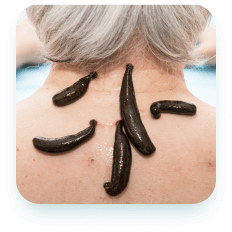
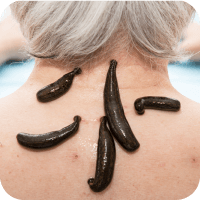
Font-family, shadow effect changed

diff --git a/css/style.css b/css/style.css
@@ -28,7 +28,7 @@ a {
   background-color: #de2e54;
   border: 2px solid #de2e54;
   border-radius: 8px;
-  font-family: "Open Sans Condensed", Sans;
+  font-family: "Open Sans Condensed", "Open Sans", sans-serif;
   font-weight: 700;
   font-size: 15px;
   line-height: 150%;
@@ -51,7 +51,7 @@ a {
 }
 
 .logo {
-  font-family: "Open Sans", Sans;
+  font-family: "Open Sans", "Open Sans", sans-serif;
   font-weight: 600;
   font-size: 24px;
   line-height: 33px;
@@ -112,7 +112,7 @@ header nav a:active {
 }
 
 .header-nav-list li a {
-  font-family: "Open Sans", Sans;
+  font-family: "Open Sans", "Open Sans", sans-serif;
   font-weight: 700;
   font-size: 14px;
   line-height: 150%;
@@ -148,7 +148,7 @@ header nav a:active {
 }
 
 .hero-content h2 {
-  font-family: "Open Sans Condensed", Sans;
+  font-family: "Open Sans Condensed", "Open Sans", sans-serif;
   font-weight: 700;
   font-size: 36px;
   line-height: 120%;
@@ -157,7 +157,7 @@ header nav a:active {
 }
 
 .hero-content p {
-  font-family: "Open Sans", Sans;
+  font-family: "Open Sans", "Open Sans", sans-serif;
   font-weight: 400;
   font-size: 18px;
   line-height: 150%;
@@ -188,7 +188,7 @@ header nav a:active {
 }
 
 .features h2 {
-  font-family: "Open Sans Condensed", Sans;
+  font-family: "Open Sans Condensed", "Open Sans", sans-serif;
   font-weight: 700;
   font-size: 36px;
   line-height: 120%;
@@ -199,6 +199,7 @@ header nav a:active {
 .features-list li {
   display: flex;
   justify-content: space-between;
+  align-items: center;
   margin-bottom: 80px;
 }
 
@@ -208,17 +209,17 @@ header nav a:active {
 
 .features-list li img {
   width: 200px;
-  height: 220px;
+  height: 200px;
+  box-shadow: 0px 12px 24px -8px rgba(0, 107, 116, 0.3);
   margin-right: 64px;
 }
 
 .features-list-content {
   width: 600px;
-  margin-top: 25px;
 }
 
 .features-list-content h3 {
-  font-family: "Open Sans Condensed", Sans;
+  font-family: "Open Sans Condensed", "Open Sans", sans-serif;
   font-weight: 700;
   font-size: 24px;
   line-height: 120%;
@@ -227,7 +228,7 @@ header nav a:active {
 }
 
 .features-list-content p {
-  font-family: "Open Sans", Sans;
+  font-family: "Open Sans", "Open Sans", sans-serif;
   font-weight: 400;
   font-size: 16px;
   line-height: 150%;
@@ -251,7 +252,7 @@ header nav a:active {
 }
 
 #register h2 {
-  font-family: "Open Sans Condensed", Sans;
+  font-family: "Open Sans Condensed", "Open Sans", sans-serif;
   font-weight: 700;
   font-size: 36px;
   line-height: 120%;
@@ -265,7 +266,7 @@ header nav a:active {
   background-color: #0eb4c1;
   border: 2px solid #ffffff;
   border-radius: 8px;
-  font-family: "Open Sans Condensed", Sans;
+  font-family: "Open Sans Condensed", "Open Sans", sans-serif;
   font-weight: 700;
   font-size: 15px;
   line-height: 120%;
@@ -327,7 +328,7 @@ footer a:active {
 }
 
 .footer-nav-list li a {
-  font-family: "Open Sans", Sans;
+  font-family: "Open Sans", "Open Sans", sans-serif;
   font-weight: 700;
   font-size: 14px;
   line-height: 150%;
